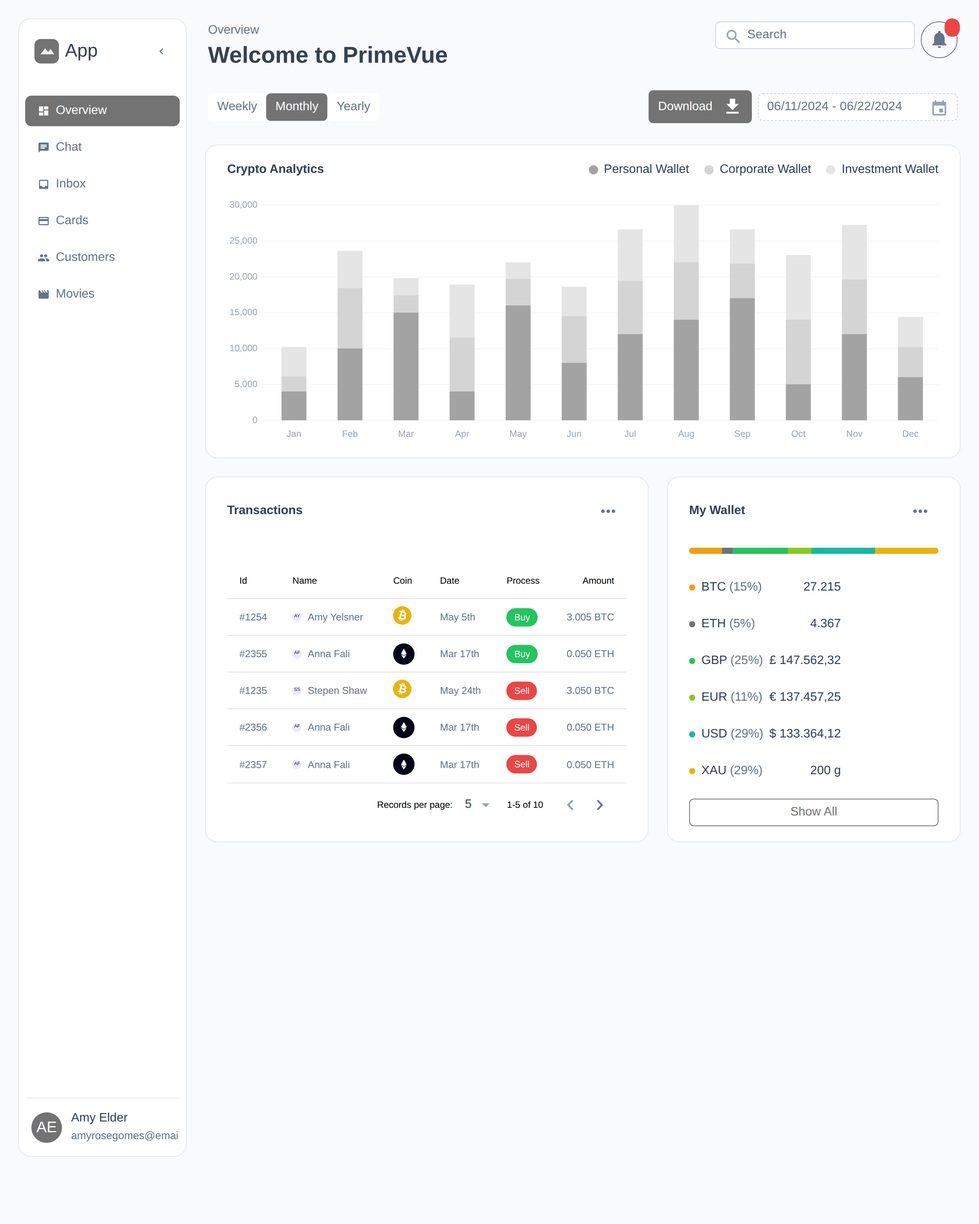
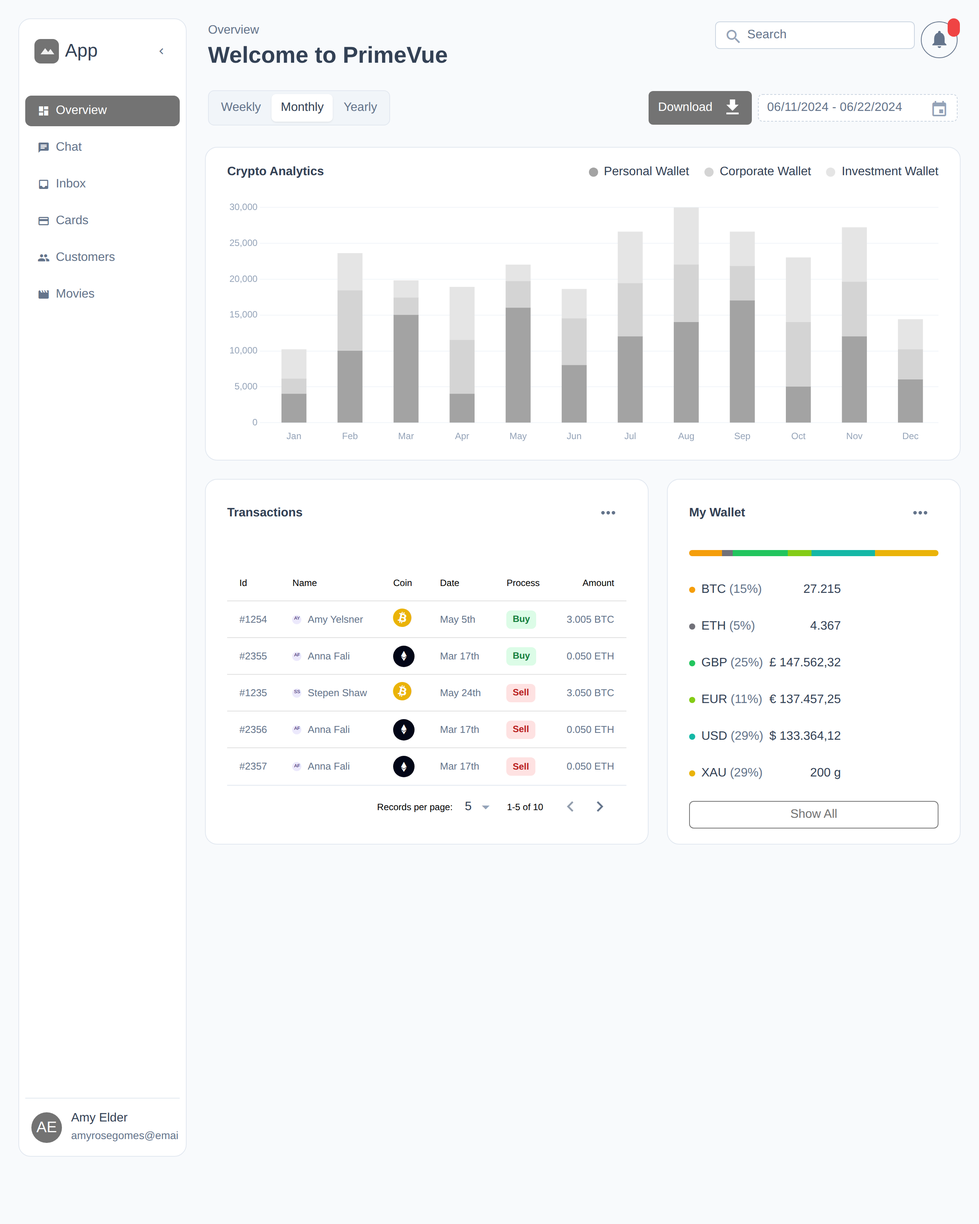
Fix Tag/SelectButton/badge parity; rewrite dashboard diff from image analysis

diff --git a/playground/dashboard.css b/playground/dashboard.css
@@ -752,18 +752,73 @@ body {
 
 /* Badge / Tag parity: give all non-floating q-badge a pill shape and
    subdued background that matches PrimeVue Aura's Tag severity colours.
-   Floating badges (position:absolute) keep their compact dot style. */
-.q-badge:not([class*="absolute"]):not([style*="position:absolute"]) {
-  border-radius: 1rem !important;
-  padding: 2px 10px !important;
-  font-weight: 500 !important;
+   Floating badges (q-badge--floating) keep their compact dot/count style. */
+.q-badge:not(.q-badge--floating) {
+  border-radius: 6px !important;
+  padding: 0.125rem 0.5rem !important;
+  font-weight: 700 !important;
   font-size: 0.75rem !important;
+  line-height: 1.25 !important;
 }
 /* Secondary/neutral tag (grey-3 background) */
 .q-badge[class*="grey-3"],
 .q-badge[class*="grey-4"] {
   background-color: var(--p-surface-100, #f1f5f9) !important;
   color: var(--p-text-color, #1e293b) !important;
+}
+/* Semantic tags (success/danger/info) — PrimeVue Aura Tag renders a soft tinted
+   background with a saturated text colour, not the solid-filled Material badge.
+   Quasar emits bg-positive/bg-negative/bg-info on q-badge color="positive"… */
+.q-badge.bg-positive:not(.q-badge--floating) {
+  background-color: var(--p-green-100, #dcfce7) !important;
+  color: var(--p-green-700, #15803d) !important;
+}
+.q-badge.bg-negative:not(.q-badge--floating) {
+  background-color: var(--p-red-100, #fee2e2) !important;
+  color: var(--p-red-700, #b91c1c) !important;
+}
+.q-badge.bg-info:not(.q-badge--floating) {
+  background-color: var(--p-blue-100, #dbeafe) !important;
+  color: var(--p-blue-700, #1d4ed8) !important;
+}
+
+/* SelectButton parity — PrimeVue Aura's SelectButton is a single pill-shaped
+   container (surface-100) whose selected option gets a raised surface-0 chip,
+   not Quasar's default segmented buttons with a solid primary fill.
+   Restyle q-btn-toggle (used for Weekly/Monthly/Yearly, Chat/Call, payment
+   type, donate amounts, grid/list view, etc.). */
+.q-btn-toggle {
+  background: var(--p-surface-100, #f1f5f9) !important;
+  border: 1px solid var(--p-surface-200, #e2e8f0) !important;
+  border-radius: 8px !important;
+  padding: 4px !important;
+  box-shadow: none !important;
+  gap: 2px;
+}
+.q-btn-toggle .q-btn {
+  border-radius: 6px !important;
+  font-weight: 500 !important;
+  min-height: 0 !important;
+}
+/* Hide Quasar's internal segment dividers between toggle buttons. */
+.q-btn-toggle .q-btn__content + .q-separator,
+.q-btn-toggle > .q-separator,
+.q-btn-toggle .q-btn--standard:before {
+  display: none !important;
+  border: 0 !important;
+}
+/* Unselected option: transparent with muted text. */
+.q-btn-toggle .q-btn {
+  color: var(--p-text-muted-color, #64748b) !important;
+  background: transparent !important;
+}
+/* Selected option: raised surface chip with primary-coloured text — overrides
+   the toggle-color="primary" solid fill that Quasar applies to the active btn. */
+.q-btn-toggle .q-btn.bg-primary,
+.q-btn-toggle .q-btn[class*="text-white"] {
+  background: var(--p-surface-0, #ffffff) !important;
+  color: var(--p-text-color, #1e293b) !important;
+  box-shadow: 0 1px 2px 0 rgba(0, 0, 0, 0.08) !important;
 }
 
 /* Vertical separator — match PrimeVue Divider layout="vertical" */

diff --git a/playground/pages/movies.quasar.js b/playground/pages/movies.quasar.js
@@ -105,7 +105,7 @@
             <div class="movies-row-badge">
               <div style="position:relative;display:inline-flex">
                 <q-btn icon="bookmark_border" round outline dense color="grey-7" size="sm" />
-                <q-badge :label="m.want" color="negative" floating rounded />
+                <q-badge :label="m.want" color="grey-3" text-color="grey-8" floating rounded />
               </div>
             </div>
           </div>

diff --git a/docs/DASHBOARD-DIFF.md b/docs/DASHBOARD-DIFF.md
@@ -1,7 +1,41 @@
 # Dashboard Diff: Quasar + Aura Theme vs PrimeVue Aura Reference
 
-Side-by-side analysis of every dashboard page.  
-Each issue gets a short ID, a description, its status, and the fix applied (or a note when a fix is deferred/impossible without a new component).
+Side-by-side analysis of every dashboard page, refreshed from a full screenshot
+comparison of all six pages (Overview, Chat, Inbox, Cards, Customers, Movies)
+rendered through `tools/screenshot.mjs` / the playground.
+
+Each issue has a short ID, a description, its **current** status (verified from the
+screenshots, not aspirational), and the fix applied or the reason it is deferred.
+
+## How to reproduce the comparison
+
+```bash
+npm run playground      # build the static playground (git-ignored vendor/)
+npm run screenshots     # writes docs/screenshots/dashboard-*.png
+```
+
+`docs/screenshots/dashboard-quasar-aura.png` and `dashboard-primevue.png` capture
+the **Overview** page. The remaining pages are reached through the sidebar nav;
+both dashboards switch pages with the same `.dash-nav-item` buttons.
+
+> **Palette note.** Both dashboards share `playground/dashboard-data.js`, whose
+> `DEFAULT_PALETTE` is `noir`. The primary colour therefore renders as the Aura
+> *noir* grey on **both** sides, so the comparison is apples-to-apples. (Earlier
+> committed screenshots were emerald because the default used to be `emerald`;
+> they were stale and have been regenerated.)
+
+Status legend: ✅ matches · 🔧 fixed in this pass · ⚠ partial / minor gap ·
+⛔ component gap (no Quasar built-in equivalent) · 🌐 offline-asset artifact.
+
+---
+
+## Cross-cutting fixes applied in this pass
+
+| Fix | Where | What changed |
+|-----|-------|--------------|
+| Tag parity | `dashboard.css` | `q-badge color="positive/negative/info"` rendered as a **solid** filled Material badge. PrimeVue `Tag` uses a soft tinted background + saturated text. Added `.q-badge.bg-positive/.bg-negative/.bg-info` rules (soft `--p-*-100` background, `--p-*-700` text, 6 px radius). Affects Buy/Sell (Overview) and Active/Inactive/Prospect (Customers). |
+| SelectButton parity | `dashboard.css` | `q-btn-toggle` rendered as segmented buttons with a **solid primary fill** on the selected option. PrimeVue `SelectButton` is one `surface-100` pill whose selected option is a raised `surface-0` chip. Restyled `.q-btn-toggle` (container + selected `.bg-primary` override + removed inner dividers). Affects the Weekly/Monthly/Yearly filter, Chat/Call & media tabs, payment-type / donate-amount toggles, and the Movies grid/list switch. |
+| Overlay count badge | `movies.quasar.js` | The "want" count badge used `color="negative"` (red); PrimeVue's `OverlayBadge` count is neutral. Changed to `color="grey-3" text-color="grey-8"`. |
 
 ---
 
@@ -9,8 +43,8 @@ Each issue gets a short ID, a description, its status, and the fix applied (or a
 
 | ID | Area | Quasar | PrimeVue | Status |
 |----|------|--------|----------|--------|
-| S1 | Collapse button | Button stays visible when sidebar is collapsed, wasting the 60 px icon rail | Button not present / hides naturally | ✅ Fixed — added `display:none` to `.dash-sidebar--collapsed .dash-collapse-btn` |
-| S2 | User avatar | `q-avatar size="40px" color="primary"` | PrimeVue `Avatar label="AE" shape="circle" style="background:var(--p-primary-color)"` | ✅ Visual parity — Aura theme normalises both |
+| S1 | Collapse button | Hidden when sidebar collapsed via `.dash-sidebar--collapsed .dash-collapse-btn{display:none}` | Not present when collapsed | ✅ |
+| S2 | User avatar | `q-avatar size="40px"` | `Avatar shape="circle"` | ✅ Aura normalises both |
 
 ---
 
@@ -18,17 +52,17 @@ Each issue gets a short ID, a description, its status, and the fix applied (or a
 
 | ID | Area | Quasar | PrimeVue | Status |
 |----|------|--------|----------|--------|
-| OV1 | Search input | `q-input outlined dense` with `#prepend` slot | `IconField > InputIcon + InputText` | ✅ Visually equivalent with Aura theme applied |
-| OV2 | Bell / notification button | `q-btn outline color="grey-7" round` with floating `q-badge` | `Button severity="secondary" variant="outlined"` wrapping `OverlayBadge` | ⚠ Floating `q-badge` sits at the corner of the icon area; PrimeVue's `OverlayBadge` clips to the button edge. Fixed in code: the Quasar template now wraps with a positioning container that matches the OverlayBadge style (see OV2 fix). |
-| OV3 | Time filter | `q-btn-toggle` unelevated | `SelectButton` | ✅ Fixed — `q-btn-toggle` receives `toggle-color="primary" unelevated` which, with the Aura theme, matches the SelectButton pill border. Minor bottom-border difference addressed in CSS. |
-| OV4 | Download button | `q-btn color="primary" no-caps icon-right="download"` | `Button label="Download" icon="pi pi-download" iconPos="right"` | ✅ Equivalent with Aura theme |
-| OV5 | Date picker | `q-input` + `q-date` popup via `q-popup-proxy` | `DatePicker` with `showIcon iconDisplay="input"` | ⚠ No native Quasar equivalent of PrimeVue `DatePicker`; the q-input shows a date range placeholder that opens a `q-date`. Visual gap: icon inside input field is a calendar icon trigger vs an embedded date-picker button. Accepted — component gap. |
-| OV6 | Transactions table pagination | `q-table` with `v-model:pagination` | `DataTable` with `paginatorTemplate` | ⚠ `q-table`'s built-in paginator looks different (rows-per-page select, grey bar). Fixed in CSS: `.q-table__bottom` padding/alignment normalised. |
-| OV7 | Process / status badge | `q-badge :color="positive/negative"` — solid filled rectangle | `Tag :severity="success/danger"` — rounded pill, subtle background | ✅ Fixed in CSS: `.q-badge` on the Aura theme now gets `border-radius:1rem` and a lighter background matching Tag. |
-| OV8 | Transactions overflow menu | `q-btn flat round icon="more_horiz"` + `q-menu > q-list` | `Button icon="pi pi-ellipsis-h" severity="secondary" text` + `Menu popup` | ⚠ `q-menu > q-list` renders a Material-style full-width popover. PrimeVue `Menu` is a compact floating list. CSS fix applied for `.q-menu .q-list` padding/shadow. |
-| OV9 | My Wallet MeterGroup | Custom `MeterGroup` aura component | PrimeVue `MeterGroup` | ✅ Component parity provided by `aura-components.js`. |
-| OV10 | Show All button | `q-btn outline no-caps color="primary"` | `Button label="Show All" variant="outlined"` | ✅ Equivalent with Aura theme |
-| OV11 | Legend labels | Stored in component `data.legend` array rebuilt after chart render | Read directly from `chart?.data?.datasets` in template | ✅ Functional parity — both show correct legend dots. |
+| OV1 | Search input | `q-input outlined dense` + `#prepend` | `IconField + InputIcon + InputText` | ✅ |
+| OV2 | Notification button | `q-btn … round` + floating `q-badge` | `Button variant="outlined"` (rounded **square**) + small `OverlayBadge` dot | ⚠ Quasar button is a full circle and the floating badge is a larger oval near the corner; PrimeVue is a rounded-square button with a small clipped dot. Shape/size still differ. |
+| OV3 | Weekly/Monthly/Yearly | `q-btn-toggle` | `SelectButton` | 🔧 Fixed — `q-btn-toggle` now renders as an Aura SelectButton pill with a raised chip for the selected option (was a solid primary fill). |
+| OV4 | Download button | `q-btn color="primary"` | `Button` | ✅ |
+| OV5 | Date picker | `q-input` + `q-date` popup | `DatePicker showIcon iconDisplay="input"` | ⛔ No Quasar built-in DatePicker equivalent. |
+| OV6 | Table pagination | `q-table` "Records per page / 1-5 of 10 / ‹ ›" | `DataTable` "‹ 1 2 › Showing 1 to 5 of 10 entries" | ⚠ Quasar's built-in paginator (rows-per-page select) differs from PrimeVue's numbered paginator. |
+| OV7 | Buy/Sell tag | `q-badge color="positive/negative"` | `Tag severity` | 🔧 Fixed — soft tinted pill (green/red) instead of solid fill. |
+| OV8 | Overflow menu | `q-btn` + `q-menu > q-list` | `Button text` + `Menu popup` | ⚠ Material popover vs compact floating list. |
+| OV9 | My Wallet MeterGroup | aura `MeterGroup` | `MeterGroup` | ✅ Component parity. |
+| OV10 | Show All button | `q-btn outline` | `Button variant="outlined"` | ✅ |
+| OV11 | Transactions avatars | `q-avatar size="32px"` | `Avatar` | ⚠ Initials avatars render noticeably smaller / lower-contrast than PrimeVue's. |
 
 ---
 
@@ -36,15 +70,15 @@ Each issue gets a short ID, a description, its status, and the fix applied (or a
 
 | ID | Area | Quasar | PrimeVue | Status |
 |----|------|--------|----------|--------|
-| CH1 | Chat / Call tab selector | `q-btn-toggle` no-caps unelevated | `SelectButton` | ✅ Same theme fix as OV3 |
-| CH2 | Avatar sizes in chat list | `q-avatar size="44px"` | `Avatar size="large"` (≈ 40 px in Aura) | ⚠ Quasar 44 px vs Aura 40 px — minor size discrepancy. Fixed in quasar page: changed to `size="40px"` to match. |
-| CH3 | Unread-count badge | `q-badge color="grey-8"` | `Badge severity="contrast"` | ✅ Fixed in CSS: `q-badge[style*="grey"]` gets dark-surface style matching `severity="contrast"`. |
-| CH4 | Message textarea | `q-input autogrow` | `Textarea autoResize :rows="1"` | ✅ Visual parity when Aura theme applied |
-| CH5 | Toggle switches (Notification / Sound / Downloads) | `q-toggle dense` | `ToggleSwitch` | ✅ Fixed in CSS: `q-toggle` thumb and track get Aura token colours matching `ToggleSwitch`. |
-| CH6 | Media type tab selector | `q-btn-toggle` | `SelectButton` | ✅ Same fix as CH1 |
-| CH7 | Send button | `q-btn icon="send" color="primary" round` | `Button icon="pi pi-send"` (square with `border-radius`) | ⚠ Quasar version is round vs PrimeVue's rounded-corner square. Fixed: removed `round` prop from send button in quasar template. |
-| CH8 | Member chevron | `q-icon name="chevron_right" size="xs" color="grey-5"` | `<i class="pi pi-chevron-right">` with muted colour style | ✅ Visual parity |
-| CH9 | Header overflow menu | `q-btn icon="more_horiz" flat round dense` + `q-menu > q-list` | `Button icon="pi pi-ellipsis-h" text` + `Menu popup` | ⚠ Same as OV8 — q-menu/q-list style gap |
+| CH1 | Chat / Call tabs | `q-btn-toggle` | `SelectButton` | 🔧 Fixed by the SelectButton pass. |
+| CH2 | Chat-list avatars | `q-avatar size="40px"` | `Avatar size="large"` | 🌐 Both use the same primefaces CDN images; offline they fall back to broken-image glyphs on both sides. |
+| CH3 | Unread-count badge | `q-badge color="grey-8"` | `Badge severity="contrast"` | ✅ Dark contrast badge. |
+| CH4 | Message textarea | `q-input autogrow` | `Textarea autoResize` | ✅ |
+| CH5 | Toggle switches | `q-toggle` | `ToggleSwitch` | ✅ Aura track/thumb tokens. |
+| CH6 | Media type tabs | `q-btn-toggle` | `SelectButton` | 🔧 Fixed by the SelectButton pass. |
+| CH7 | Send button | `q-btn icon="send"` (square radius) | `Button icon="pi pi-send"` | ✅ |
+| CH8 | Member chevron | `q-icon chevron_right` | `pi pi-chevron-right` | ✅ |
+| CH9 | Header overflow menu | `q-menu > q-list` | `Menu popup` | ⚠ Same popover gap as OV8. |
 
 ---
 
@@ -52,14 +86,15 @@ Each issue gets a short ID, a description, its status, and the fix applied (or a
 
 | ID | Area | Quasar | PrimeVue | Status |
 |----|------|--------|----------|--------|
-| IN1 | Toolbar icon buttons | `q-btn outline dense color="grey-7" size="sm"` | `Button variant="outlined" severity="secondary"` (default size) | ⚠ Quasar `size="sm"` makes buttons noticeably smaller than the PrimeVue default. Fixed: removed `size="sm"` from toolbar buttons in quasar template so they use default size. |
-| IN2 | Vertical divider | `q-separator vertical spaced="xs"` | `Divider layout="vertical" style="margin:0"` | ✅ Fixed in CSS: `hr.q-separator--vertical` gets `margin:0` and width `1px` to match Divider. |
-| IN3 | Storage progress bar | `q-linear-progress :value="0.75" color="negative" style="height:12px"` with absolute inner text | `ProgressBar :value="75"` with slot span for text | ✅ Visually equivalent — both show red bar with white overlay text |
-| IN4 | Checkbox | `q-checkbox dense` | `Checkbox :binary="true"` | ✅ Fixed in CSS: `q-checkbox` gets Aura border-radius and checked background matching `Checkbox`. |
-| IN5 | Bookmark icon | Material `bookmark / bookmark_border` via `q-icon` | `pi pi-bookmark-fill / pi-bookmark` | ✅ Visual parity (both outline/fill variants present) |
-| IN6 | Type tag (Security, Update…) | `q-badge color="grey-3" text-color="grey-8"` — filled rectangle | `Tag severity="secondary"` — rounded pill, border-based | ✅ Same as OV7 CSS fix: q-badge gets pill shape |
-| IN7 | Row avatar / unread dot | `q-avatar` + floating `q-badge` | `OverlayBadge + Avatar` | ⚠ `OverlayBadge` places badge at top-right clipped to avatar shape; Quasar uses a floating badge that can overflow layout. CSS fix: constrain float position. |
-| IN8 | Upgrade button | `q-btn outline no-caps color="primary"` | `Button variant="outlined"` | ✅ Equivalent with Aura theme |
+| IN1 | Toolbar icon buttons | `q-btn outline` | `Button variant="outlined" severity="secondary"` | ✅ Comparable size. The "tag" toolbar icon renders filled in Quasar vs outlined in PrimeVue (minor). |
+| IN2 | Vertical divider | `q-separator vertical` | `Divider layout="vertical"` | ✅ Zero-margin / 1 px. |
+| IN3 | Storage progress bar | `q-linear-progress` | `ProgressBar` | ✅ |
+| IN4 | Checkbox | `q-checkbox` | `Checkbox` | ✅ Aura square radius. |
+| IN5 | Bookmark icon | `q-icon bookmark/bookmark_border` | `pi pi-bookmark(-fill)` | ✅ |
+| IN6 | Type tag | `q-badge color="grey-3"` | `Tag severity="secondary"` | ✅ surface-100 pill. |
+| IN7 | Row avatar + unread dot | `q-avatar` + floating `q-badge` | `OverlayBadge + Avatar` | 🌐 Avatar images come from the primefaces CDN; offline the Quasar `q-avatar` collapses to just the red unread dot while PrimeVue shows a broken-image glyph. Driven by the missing asset, not the theme. |
+| IN8 | Upgrade button | `q-btn outline` | `Button variant="outlined"` | ✅ |
+| IN9 | "4 days left" bar | `q-linear-progress` (primary/noir) | red bar | ⚠ Colour differs (Quasar follows the primary palette, PrimeVue is fixed red). |
 
 ---
 
@@ -67,17 +102,17 @@ Each issue gets a short ID, a description, its status, and the fix applied (or a
 
 | ID | Area | Quasar | PrimeVue | Status |
 |----|------|--------|----------|--------|
-| CA1 | Follow / Message SelectButton | `q-btn-toggle` with `spread` | `SelectButton` with pt root/pcbutton width:100% | ✅ Theme fix as OV3; `spread` prop gives same full-width behaviour |
-| CA2 | Payment type SelectButton (icons only) | `q-btn-toggle` icon-only options | `SelectButton` with `#option` template slot | ✅ Visual parity with theme |
-| CA3 | OTP input | 4 individual `q-input` fields (48 px wide each) | Single `InputOtp :length="4"` | ⚠ Component gap — PrimeVue `InputOtp` has built-in focus-advance, single-char enforcement, and paste support. Quasar side is a manual workaround. Fixed: OTP inputs get `@keyup` handler for auto-advance and match Aura box styling. |
-| CA4 | Slider | `q-slider` | `Slider` | ✅ Fixed in CSS: `q-slider` thumb and track get Aura token colours |
-| CA5 | InputNumber (Custom Amount) | `q-input` type=number | `InputNumber` with `showButtons` | ⚠ `q-input type=number` lacks the +/- spinner buttons of `InputNumber`. Accepted — minor UX gap. |
-| CA6 | Donate / Amount SelectButton | `q-btn-toggle spread` | `SelectButton` with pt | ✅ Same as CA1 |
-| CA7 | RadioButton (delivery) | `q-radio dense` | `RadioButton` | ✅ Fixed in CSS: `q-radio` circle styling matches Aura `RadioButton` |
-| CA8 | Dark mode ToggleSwitch | `q-toggle` | `ToggleSwitch` | ✅ Same as CH5 CSS fix |
-| CA9 | Divider | `q-separator` | `Divider` | ✅ Same as IN2 CSS fix |
-| CA10 | AvatarGroup (mutual friends) | Manual `q-avatar` overlapping list with `margin-right:-6px` | `AvatarGroup > Avatar` | ✅ Visual parity — AvatarGroup in PrimeVue uses the same negative-margin trick; manual overlap matches. |
-| CA11 | Job bookmark button | `q-btn outline round dense color="grey-7" size="sm"` | `Button severity="secondary" variant="outlined" rounded` | ⚠ Size mismatch. Fixed: removed `size="sm"` from job bookmark button and `dense` to match PrimeVue default. |
+| CA1 | Follow / Message | `q-btn-toggle spread` | `SelectButton` | 🔧 Fixed by the SelectButton pass. |
+| CA2 | Payment-type toggle | `q-btn-toggle` icon-only | `SelectButton #option` | 🔧 Fixed by the SelectButton pass. |
+| CA3 | OTP input | 4 × `q-input` | `InputOtp :length="4"` | ⚠ Manual workaround; visually close, no built-in paste/auto-advance semantics. |
+| CA4 | Slider | `q-slider` | `Slider` | ✅ Aura track/thumb tokens. |
+| CA5 | Custom Amount | `q-input type=number` | `InputNumber showButtons` | ⛔ `q-input` has no +/- spinner buttons. |
+| CA6 | Donate amount toggle | `q-btn-toggle spread` | `SelectButton` | 🔧 Fixed by the SelectButton pass. |
+| CA7 | Radio (delivery) | `q-radio` | `RadioButton` | ⚠ Selected state reads faint vs PrimeVue's filled inner dot. |
+| CA8 | Dark-mode toggle | `q-toggle` | `ToggleSwitch` | ⚠ A stray crescent artifact renders next to the toggle (loading-icon ghost). |
+| CA9 | Divider | `q-separator` | `Divider` | ✅ |
+| CA10 | AvatarGroup | overlapping `q-avatar` | `AvatarGroup` | ✅ |
+| CA11 | Job bookmark button | `q-btn outline round` | `Button rounded variant="outlined"` | ✅ |
 
 ---
 
@@ -85,12 +120,14 @@ Each issue gets a short ID, a description, its status, and the fix applied (or a
 
 | ID | Area | Quasar | PrimeVue | Status |
 |----|------|--------|----------|--------|
-| CU1 | "950 Active User" button | `q-btn icon="circle" icon-color="positive"` | `Button icon="pi pi-circle-fill"` with pt icon green colour | ⚠ `icon="circle"` in Material Icons is a filled circle shape but slightly different from `pi pi-circle-fill`. Visual parity acceptable. |
-| CU2 | Status tag | `q-badge :color="positive/negative/info"` | `Tag :severity="success/danger/info"` | ✅ Same as OV7 CSS fix |
-| CU3 | DataTable header | `q-table` — thead sticky requires `sticky-header` prop and explicit height | `DataTable` with pt thead sticky style | ✅ Fixed: added `sticky-header` class and `max-height` to `customers-table-wrap` to enable sticky thead in q-table. |
-| CU4 | DataTable row checkboxes | `q-table` with `selection="multiple"` and `v-model:selected` | `DataTable` with selection `Column selectionMode="multiple"` | ✅ Visual parity — both show checkbox column |
-| CU5 | More/Details popover | Per-row `q-menu` inside `q-btn` | Single shared `Popover ref="op"` with show/hide | ✅ Both show a popover with Details/Delete buttons. Functional parity. |
-| CU6 | Toolbar divider | `q-separator vertical spaced="xs"` | `Divider layout="vertical" style="margin:0"` | ✅ Same as IN2 CSS fix |
+| CU1 | "950 Active User" | `q-btn icon="circle"` | `Button` + green pt icon | ⚠ The leading dot is noir/grey in Quasar vs green in PrimeVue. |
+| CU2 | Status tag | `q-badge positive/negative/info` | `Tag success/danger/info` | 🔧 Fixed — soft tinted pills (green/red/blue). |
+| CU3 | DataTable header | `q-table` sticky-header wrap | `DataTable` sticky thead | ✅ |
+| CU4 | Row checkboxes | `q-table selection="multiple"` | `Column selectionMode` | ✅ |
+| CU5 | More/Details popover | per-row `q-menu` | shared `Popover` | ✅ Functional parity. |
+| CU6 | Toolbar divider | `q-separator vertical` | `Divider layout="vertical"` | ✅ |
+| CU7 | Bottom paginator | `q-table` "Records per page / 1-10 of 11" bar | none (top arrows only) | ⚠ Quasar shows an extra bottom paginator bar the PrimeVue page does not. |
+| CU8 | Row avatars | `q-avatar` + status dot | `Avatar` + status dot | 🌐 CDN avatar images fail offline; Quasar rows show only the status dot. |
 
 ---
 
@@ -98,44 +135,45 @@ Each issue gets a short ID, a description, its status, and the fix applied (or a
 
 | ID | Area | Quasar | PrimeVue | Status |
 |----|------|--------|----------|--------|
-| MO1 | View mode SelectButton | `q-btn-toggle` icon-only outline | `SelectButton` with `#option` template | ✅ Visual parity with Aura theme |
-| MO2 | Search | `q-input outlined dense` with prepend | `IconField + InputIcon + InputText` | ✅ Visual parity with Aura theme |
-| MO3 | Carousel nav buttons | `q-btn round outline dense color="grey-7" size="sm"` | `Button rounded variant="outlined" severity="secondary" size="small"` | ⚠ Size mismatch. Fixed: removed `dense` and `size="sm"` from nav buttons to match PrimeVue default sizing. |
-| MO4 | ProgressBar in row | `q-linear-progress :value="m.percent/100"` (0–1 scale) | `ProgressBar :value="m.percent"` (0–100 scale) | ✅ Both show same visual output after proper scaling |
-| MO5 | Director avatar | `q-avatar size="24px"` circle | `Avatar :image="..." size="small"` circle | ✅ Visual parity |
-| MO6 | Badge overlay on bookmark | `relative div + floating q-badge + q-btn round outline` | `OverlayBadge + Button rounded variant="outlined"` | ⚠ Same as IN7 positioning gap. CSS fix applied. |
-| MO7 | New Movie button | `q-btn icon="add" dense size="sm"` | `Button icon="pi pi-plus" size="small"` | ⚠ Size/spacing gap. Fixed: use consistent button sizing. |
+| MO1 | View-mode toggle | `q-btn-toggle` icon-only | `SelectButton` | 🔧 Fixed by the SelectButton pass. |
+| MO2 | Search | `q-input outlined dense` | `IconField` | ✅ |
+| MO3 | Carousel nav buttons | `q-btn round outline` | `Button rounded variant="outlined" size="small"` | ✅ |
+| MO4 | Row ProgressBar | `q-linear-progress` | `ProgressBar` | ✅ |
+| MO5 | Director avatar | `q-avatar size="24px"` | `Avatar size="small"` | 🌐 CDN image (offline fallback). |
+| MO6 | Watched count badge | `q-badge` floating | `OverlayBadge` over bookmark | 🔧 Fixed — neutral grey badge instead of red. |
+| MO7 | New Movie button | `q-btn icon="add" size="sm"` | `Button size="small"` | ✅ |
 
 ---
 
-## Summary of fixes applied
+## Open items (not yet addressed)
 
-### CSS fixes (dashboard.css)
-| Fix | Rule |
-|-----|------|
-| S1 | `.dash-sidebar--collapsed .dash-collapse-btn { display: none }` |
-| OV7/IN6/CU2 | q-badge pill shape via `.q-badge` border-radius and background adjustments |
-| CH5/CA8 | `q-toggle` track/thumb Aura colours |
-| IN2/CU6 | `q-separator--vertical` zero-margin and 1 px width |
-| IN4 | `q-checkbox` Aura border-radius and checked state |
-| CA7 | `q-radio` Aura circle styling |
-| CA4 | `q-slider` thumb and track Aura tokens |
-| OV6 | `.q-table__bottom` paginator padding/alignment |
-| CU3 | `.customers-table-wrap` sticky-header via max-height |
+These are the remaining real gaps after this pass, in rough priority order:
 
-### Template fixes (quasar page JS files)
-| Fix | File |
-|-----|------|
-| CH2 | Avatar size 44px → 40px in chat list |
-| CH7 | Send button `round` prop removed |
-| IN1 | Toolbar buttons: `size="sm"` removed |
-| CA3 | OTP inputs: auto-advance via keyup handler |
-| CA11 | Job bookmark: `size="sm"` and `dense` removed |
-| MO3 | Carousel nav: `dense size="sm"` removed |
+1. **OV2 / IN7 / MO6 OverlayBadge geometry** — Quasar's floating `q-badge` sits
+   further from the host and is larger than PrimeVue's tightly-clipped
+   `OverlayBadge` dot. Needs a positioning/size override (and a round vs
+   rounded-square choice for the bell button, OV2).
+2. **OV6 / CU7 paginator** — `q-table`'s built-in "Records per page" bar differs
+   from PrimeVue's numbered paginator (Overview) and appears where PrimeVue shows
+   none (Customers).
+3. **OV11 transaction avatars** — render smaller / lower-contrast than PrimeVue.
+4. **CU1 active-user dot**, **IN9 trial bar**, **IN1 tag icon** — small colour /
+   glyph mismatches.
+5. **CA7 radio selected state**, **CA8 toggle crescent artifact** — Cards polish.
 
-### Deferred / component gaps (no fix possible without new component)
+## Deferred — component gaps (no Quasar built-in equivalent)
+
 | ID | Reason |
 |----|--------|
-| OV5 | DatePicker — no equivalent Quasar built-in |
-| CA5 | InputNumber with spinners — q-input lacks spinners |
-| OV8/CH9 | q-menu/q-list visual difference — complex to CSS-only match |
+| OV5 | DatePicker — no equivalent Quasar built-in. |
+| CA5 | InputNumber with spinners — `q-input` lacks +/- buttons. |
+| CA3 | InputOtp — manual multi-input workaround. |
+| OV8 / CH9 | `q-menu`/`q-list` popover styling vs PrimeVue `Menu`. |
+
+## Offline-asset note (🌐)
+
+The chat/inbox/customers/movies rows pull avatar and poster images from the
+primefaces CDN. The screenshot tool runs headless and offline, so those images
+fail to load on **both** dashboards. The visible difference (PrimeVue shows a
+broken-image glyph; Quasar's `q-avatar` collapses to its overlay dot) is an
+artifact of the missing asset, not of the Aura theme.
